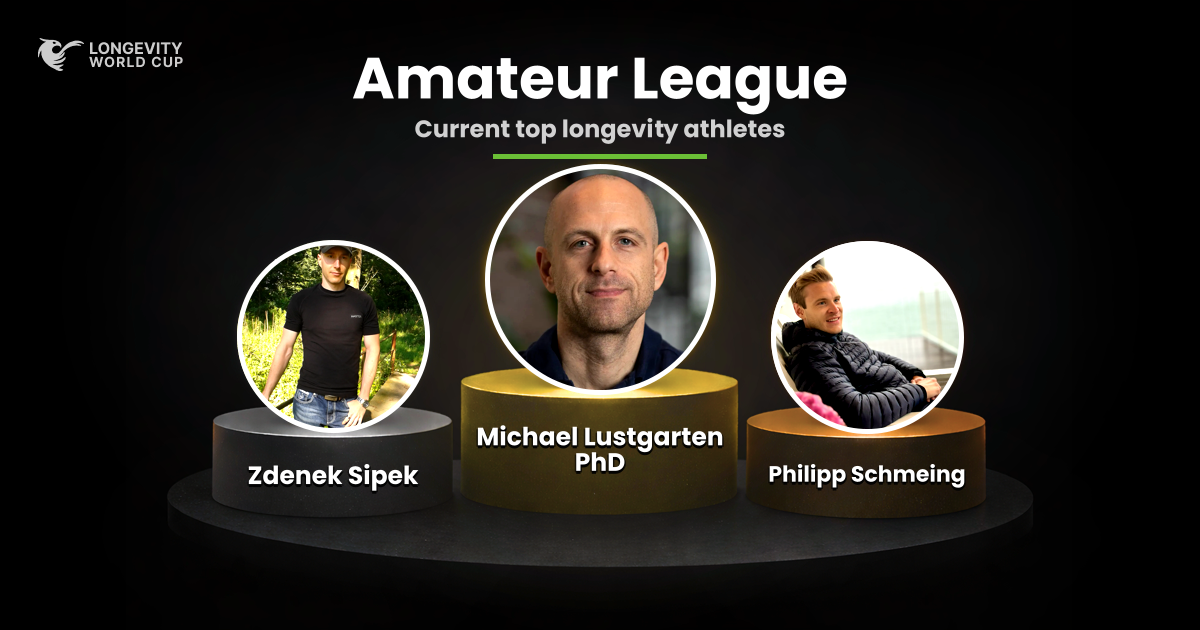
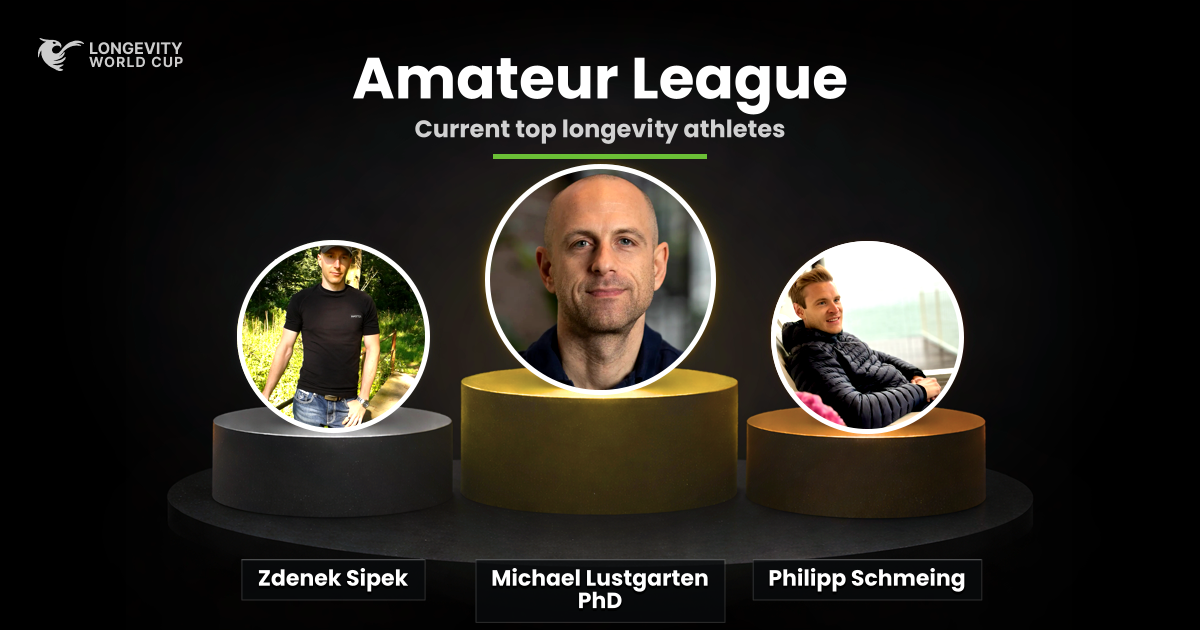
Move podium names to caption row

diff --git a/LongevityWorldCup.Website/Business/LeagueOgImageService.cs b/LongevityWorldCup.Website/Business/LeagueOgImageService.cs
@@ -23,6 +23,8 @@ public sealed class LeagueOgImageService
     private static readonly Color AccentColor = ParseHex("78DA3B");
     private static readonly Color NameLabelColor = Color.White;
     private static readonly Color NameLabelShadowColor = new(new Rgba32(0, 0, 0, 210));
+    private static readonly Color NamePlateFillColor = new(new Rgba32(8, 10, 12, 205));
+    private static readonly Color NamePlateStrokeColor = new(new Rgba32(255, 255, 255, 42));
     private static readonly Color EmptySlotFillColor = new(new Rgba32(18, 21, 23, 218));
     private static readonly Color EmptySlotTextColor = new(new Rgba32(255, 255, 255, 190));
     private static readonly Color EmptyStateTextColor = new(new Rgba32(255, 255, 255, 224));
@@ -336,9 +338,9 @@ public sealed class LeagueOgImageService
         var secondName = top3Names.Count > 1 ? top3Names[1] : "";
         var thirdName = top3Names.Count > 2 ? top3Names[2] : "";
 
-        DrawPodiumNameLabel(image, firstName, fontFamily, PodiumSlots[0].CenterX, 438f, 248f, 30f, 20f);
-        DrawPodiumNameLabel(image, secondName, fontFamily, PodiumSlots[1].CenterX, 464f, 198f, 25f, 17f);
-        DrawPodiumNameLabel(image, thirdName, fontFamily, PodiumSlots[2].CenterX, 464f, 198f, 25f, 17f);
+        DrawPodiumNameLabel(image, firstName, fontFamily, PodiumSlots[0].CenterX, 568f, 330f, 24f, 17f);
+        DrawPodiumNameLabel(image, secondName, fontFamily, PodiumSlots[1].CenterX, 568f, 258f, 22f, 16f);
+        DrawPodiumNameLabel(image, thirdName, fontFamily, PodiumSlots[2].CenterX, 568f, 258f, 22f, 16f);
     }
 
     private static void DrawPodiumNameLabel(
@@ -357,10 +359,19 @@ public sealed class LeagueOgImageService
         var layout = BuildNameLayout(text, fontFamily, maxWidth, startSize, minSize);
         var lineHeight = layout.Font.Size * 1.02f;
         var totalHeight = lineHeight * layout.Lines.Count;
-        var y = topY - Math.Max(0f, (totalHeight - lineHeight) / 2f);
+        var maxLineWidth = layout.Lines.Max(line => TextMeasurer.MeasureSize(line, new RichTextOptions(layout.Font)).Width);
+        var plateWidth = MathF.Min(maxWidth + 22f, MathF.Max(maxLineWidth + 34f, 112f));
+        var plateHeight = MathF.Max(totalHeight + 18f, 38f);
+        var plateX = centerX - (plateWidth / 2f);
+        var plateY = topY - ((plateHeight - totalHeight) / 2f);
+        var y = plateY + ((plateHeight - totalHeight) / 2f);
 
         image.Mutate(ctx =>
         {
+            ctx.Fill(NamePlateFillColor, new RectangularPolygon(plateX, plateY, plateWidth, plateHeight));
+            ctx.Draw(NamePlateStrokeColor, 1f, new RectangularPolygon(plateX, plateY, plateWidth, plateHeight));
+            ctx.Fill(new Rgba32(255, 255, 255, 32), new RectangularPolygon(plateX, plateY, plateWidth, 1.5f));
+
             foreach (var line in layout.Lines)
             {
                 DrawNameTextShadow(ctx, line, layout.Font, new PointF(centerX, y));
@@ -627,7 +638,7 @@ public sealed class LeagueOgImageService
         var top3ProfileTicks = top3Slugs.Select(GetProfileTicks).ToArray();
 
         var raw = string.Join("|",
-            "league-og-v26",
+            "league-og-v29",
             leagueSlug,
             leagueDisplayName,
             string.Join(",", top3Slugs),
